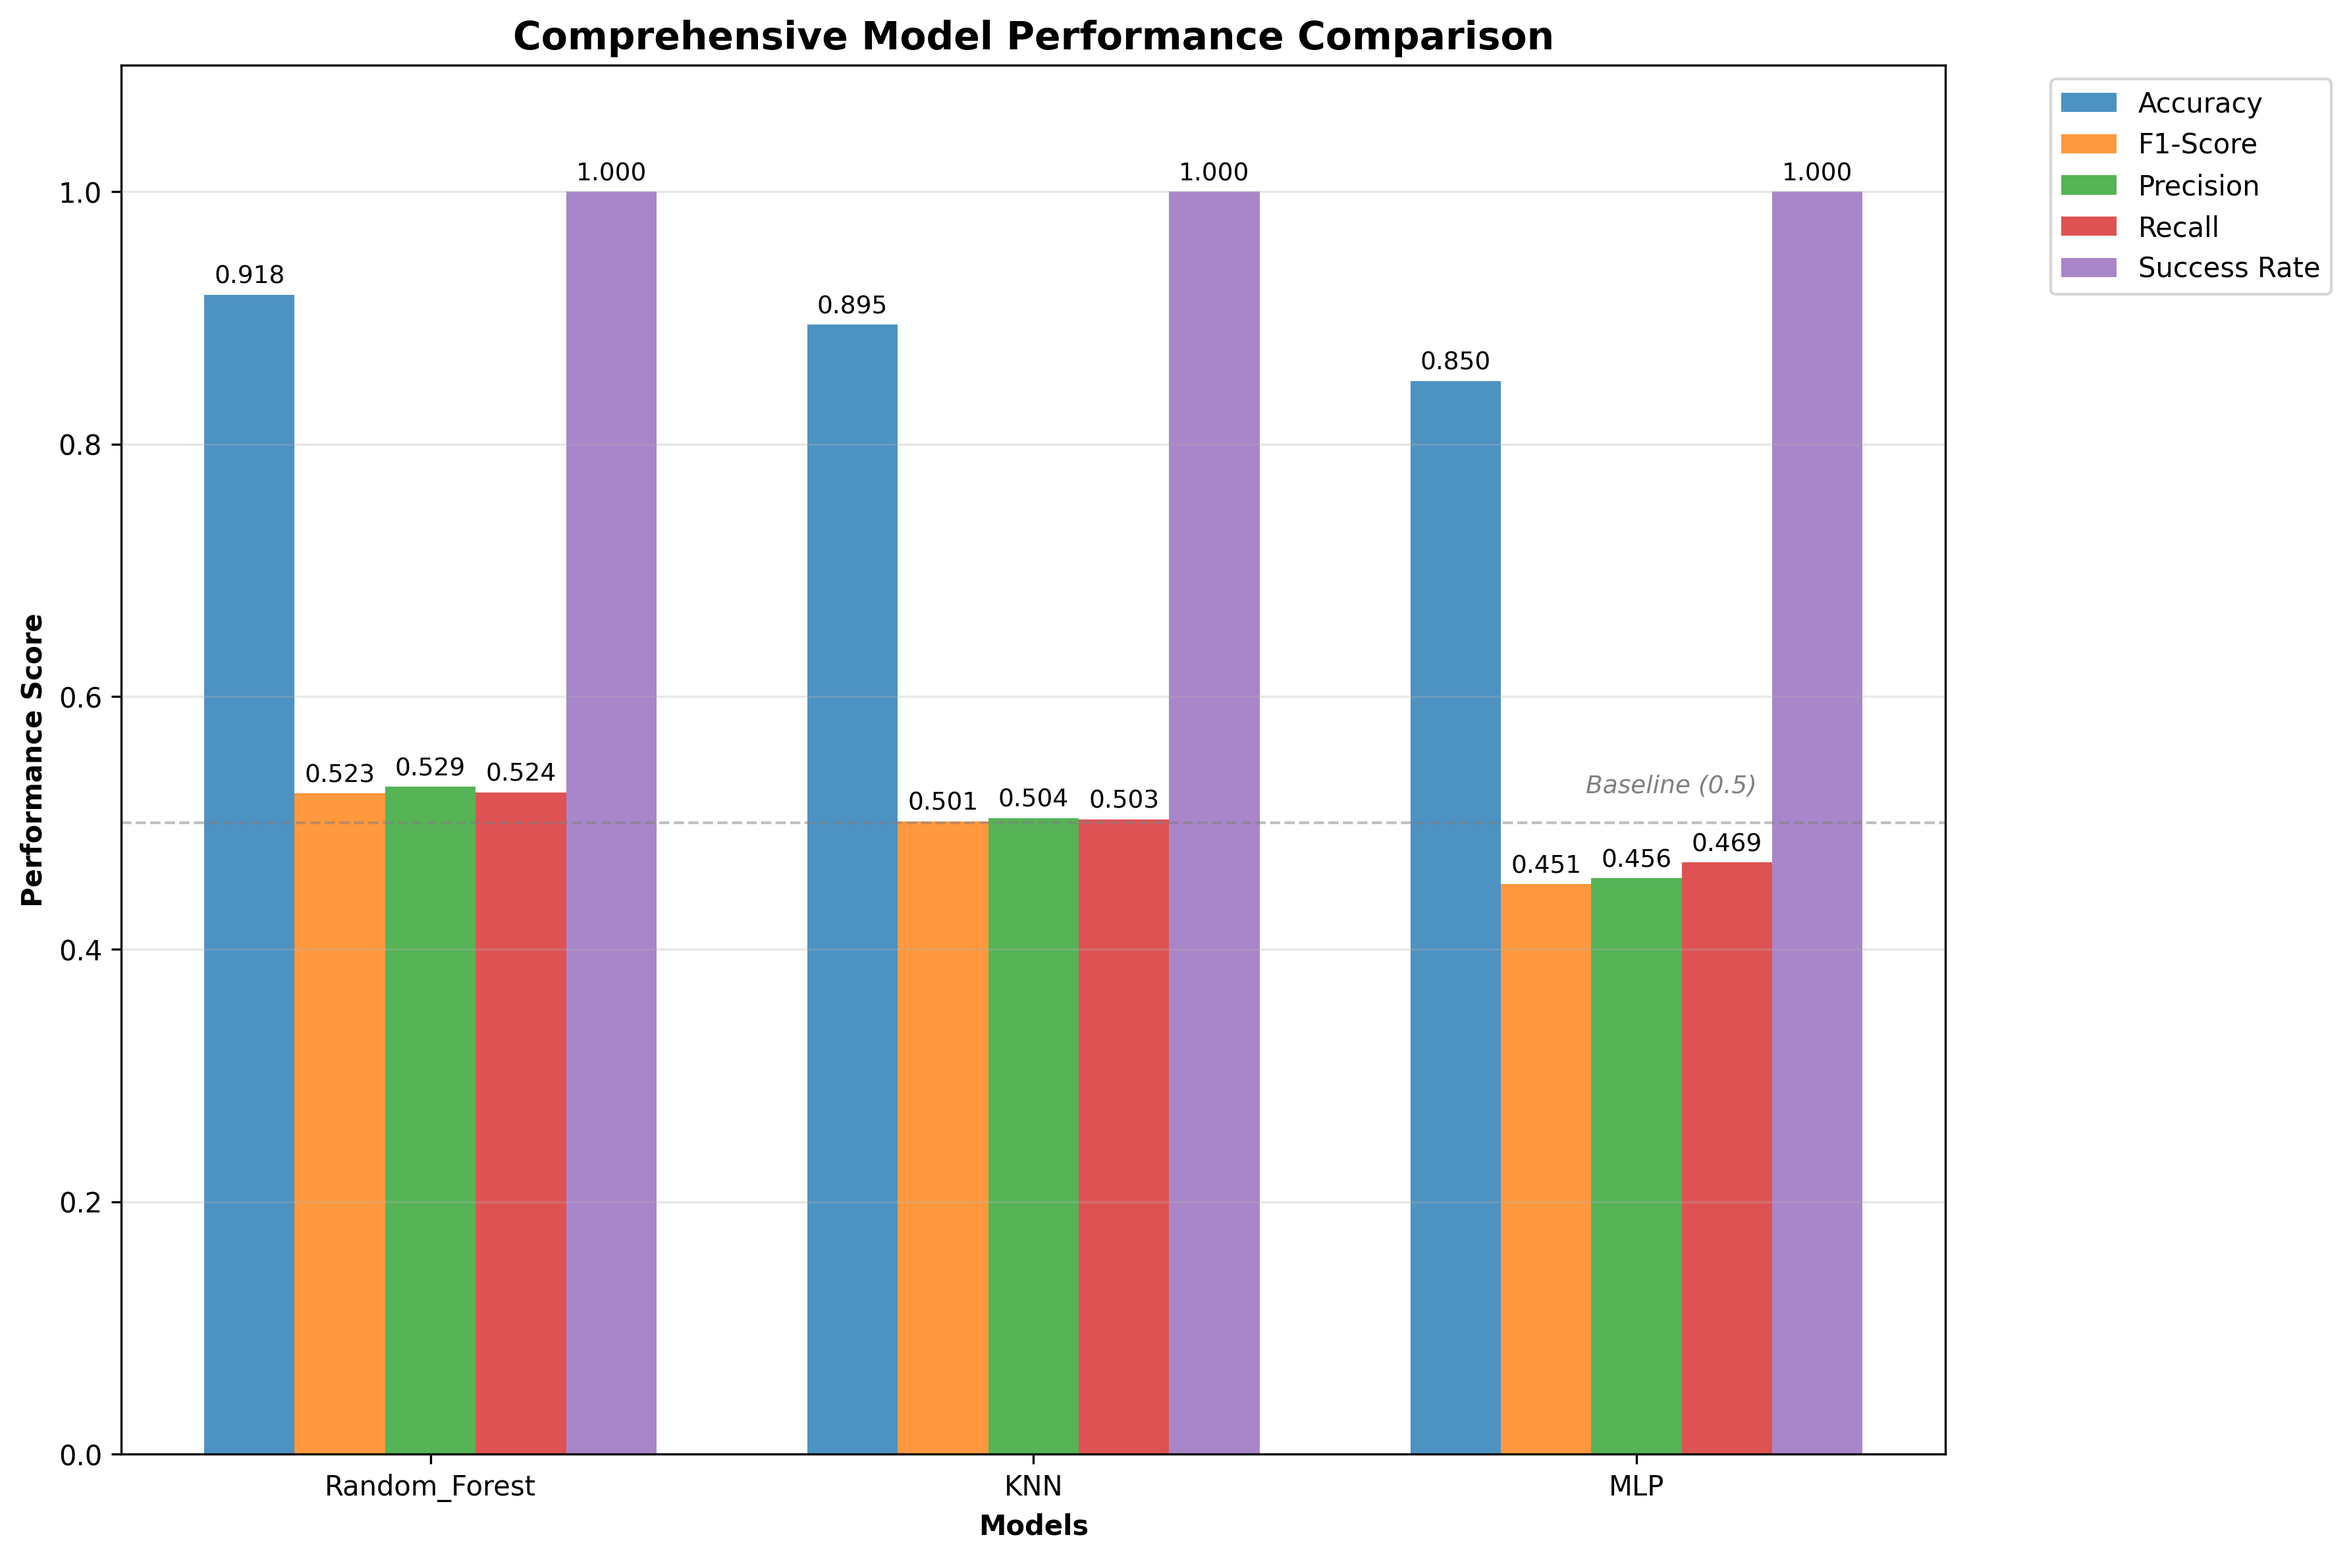
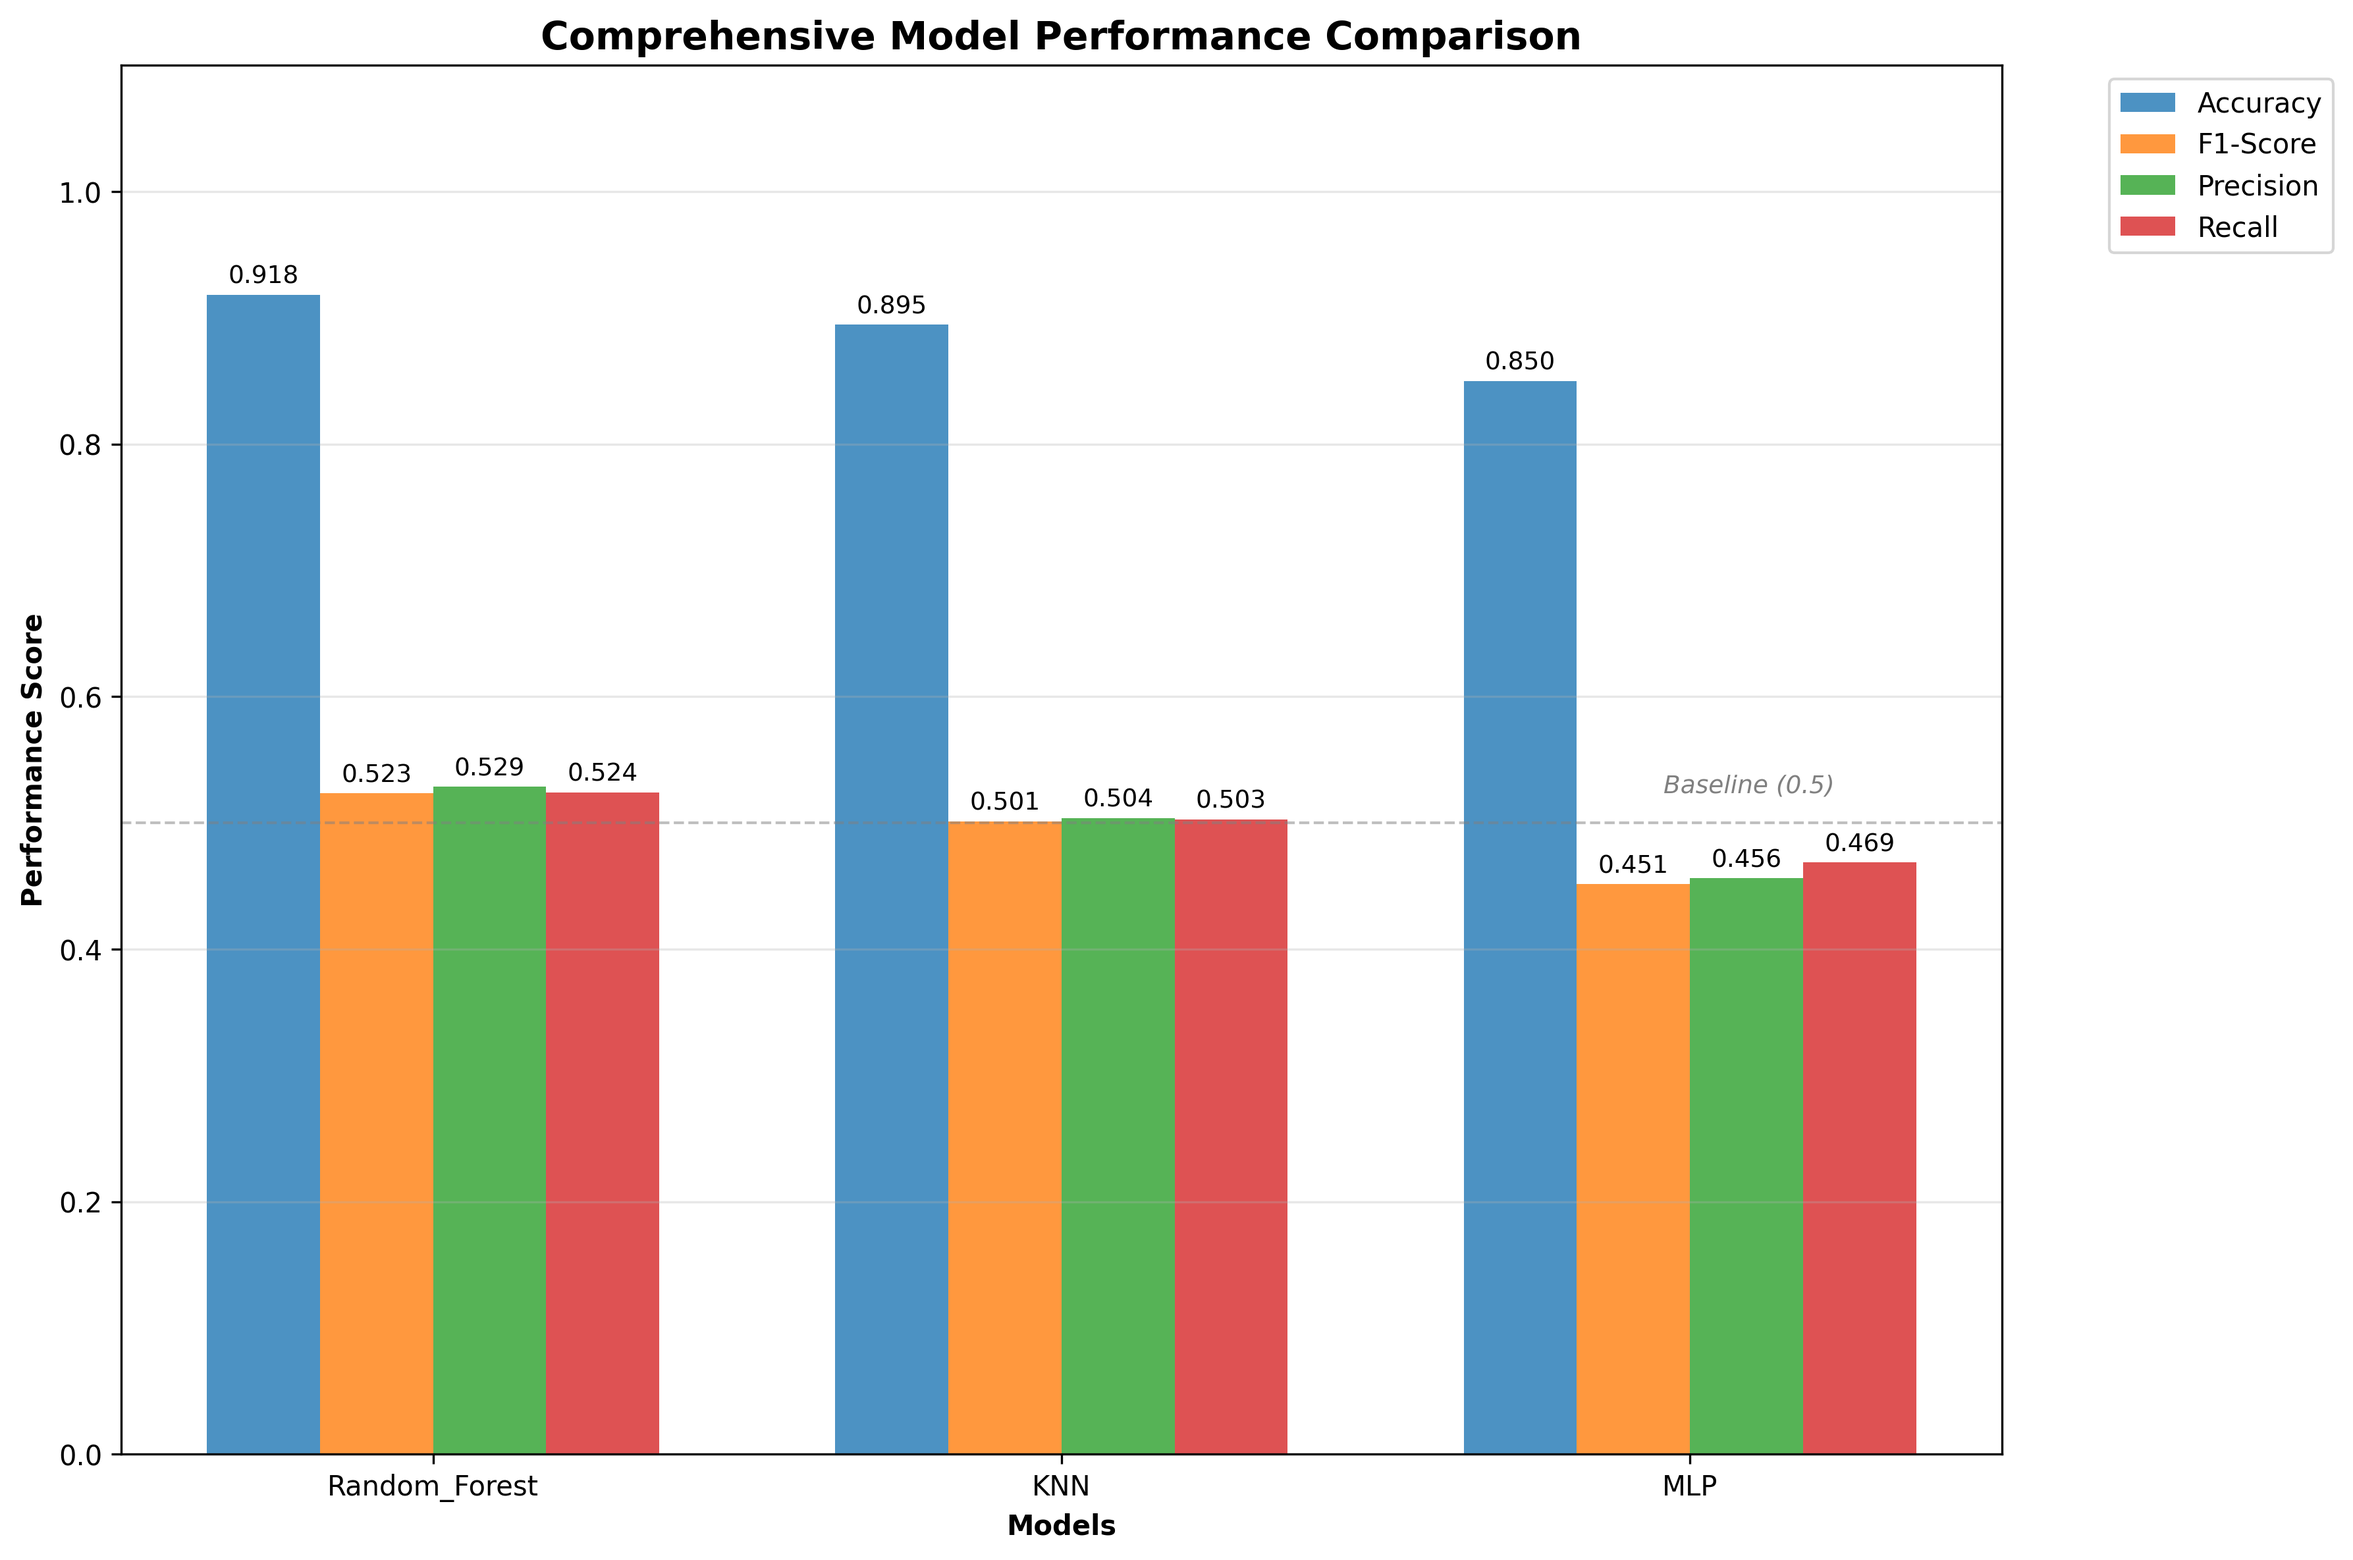
fix : update analyzer

diff --git a/GUI/performance_metrics_test/Comprehensive/results_analyzerv3.py b/GUI/performance_metrics_test/Comprehensive/results_analyzerv3.py
@@ -489,14 +489,14 @@ class ModelResultsAnalyzer:
         
         # Prepare data for grouped bar chart
         models = summary_df['Model'].tolist()
-        metrics = ['Accuracy', 'F1_Score', 'Precision', 'Recall', 'Success_Rate']
-        metric_labels = ['Accuracy', 'F1-Score', 'Precision', 'Recall', 'Success Rate']
+        metrics = ['Accuracy', 'F1_Score', 'Precision', 'Recall']
+        metric_labels = ['Accuracy', 'F1-Score', 'Precision', 'Recall']
         
         x = np.arange(len(models))  # Label locations
-        width = 0.15  # Width of bars
+        width = 0.18  # Width of bars (slightly wider since we have fewer bars)
         
         # Define colors for each metric
-        colors = ['#1f77b4', '#ff7f0e', '#2ca02c', '#d62728', '#9467bd']
+        colors = ['#1f77b4', '#ff7f0e', '#2ca02c', '#d62728']
         
         # Create bars for each metric
         for i, (metric, label, color) in enumerate(zip(metrics, metric_labels, colors)):
@@ -513,7 +513,7 @@ class ModelResultsAnalyzer:
         ax.set_xlabel('Models', fontweight='bold')
         ax.set_ylabel('Performance Score', fontweight='bold')
         ax.set_title('Comprehensive Model Performance Comparison', fontsize=14, fontweight='bold')
-        ax.set_xticks(x + width * 2)  # Center the x-ticks
+        ax.set_xticks(x + width * 1.5)  # Center the x-ticks (adjusted for 4 bars)
         ax.set_xticklabels(models)
         ax.legend(bbox_to_anchor=(1.05, 1), loc='upper left')
         ax.set_ylim(0, 1.1)  # Set y-axis limits
@@ -579,7 +579,7 @@ class ModelResultsAnalyzer:
         
         print(f"\n📊 Visualizations saved to {output_dir}/")
         print("   - model_performance_comparison.png (detailed 4-subplot view)")
-        print("   - model_performance_comparison_combined.png (combined single-plot view)")
+        print("   - model_performance_comparison_combined.png (combined single-plot view: Accuracy, F1, Precision, Recall)")
         print("   - task_performance_heatmap.png")
         print("   - model_consistency_analysis.png")
         
